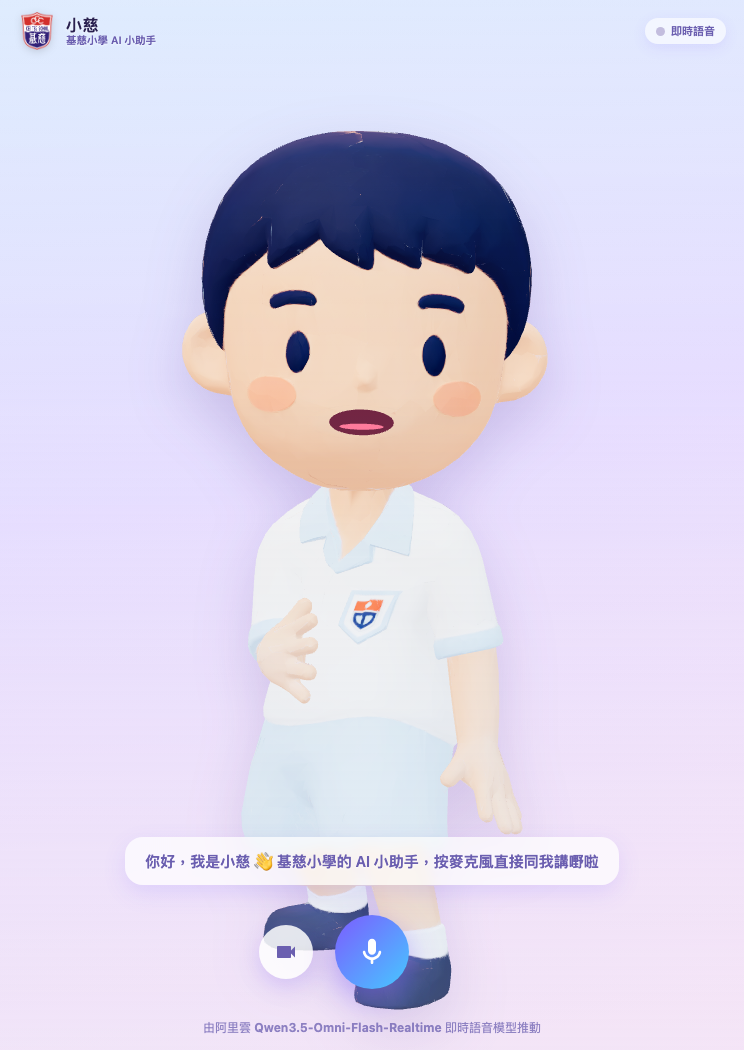
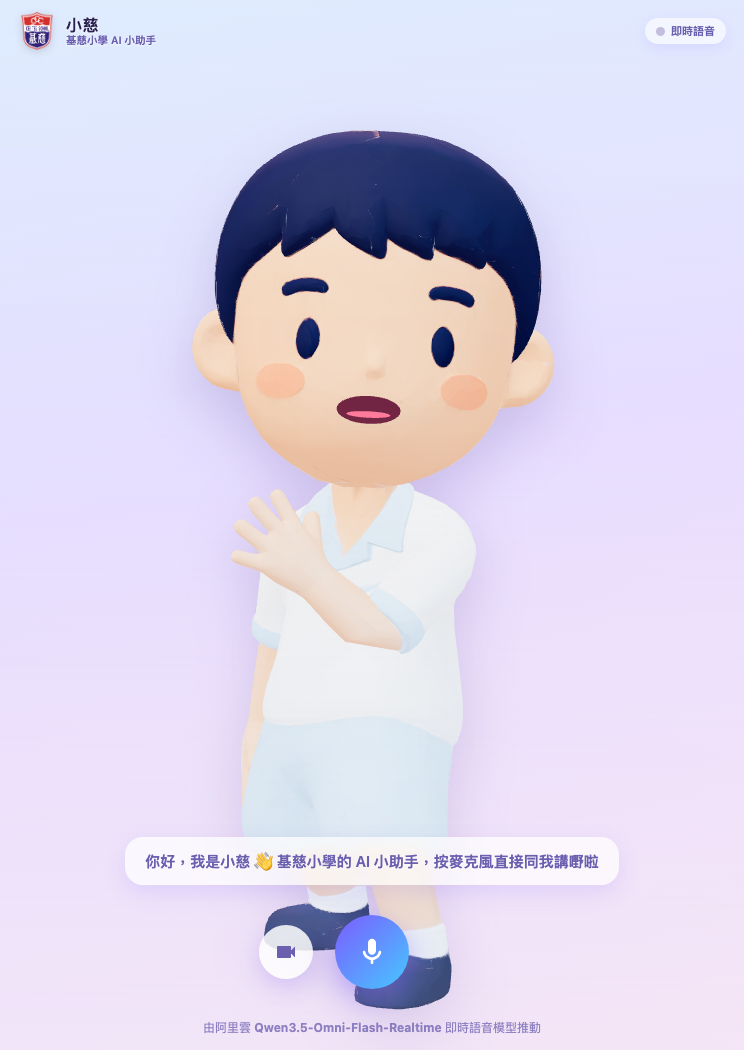
fix: amplify Xiaoci natural motion

diff --git a/public/xiaoci-3d.js b/public/xiaoci-3d.js
@@ -201,27 +201,30 @@ function initialise3D() {
 
   function applyUprightPosture() {
     // Bring the chest and head back over the hips without forcing a rigid pose.
-    applyAdditive(bones.Spine02, -0.065, 0, 0);
-    applyAdditive(bones.Spine01, -0.025, 0, 0);
-    applyAdditive(bones.Spine, -0.018, 0, 0);
-    applyAdditive(bones.neck, -0.035, 0, 0);
-    applyAdditive(bones.Head, -0.025, 0, 0);
+    applyAdditive(bones.Spine02, -0.095, 0, 0);
+    applyAdditive(bones.Spine01, -0.042, 0, 0);
+    applyAdditive(bones.Spine, -0.028, 0, 0);
+    applyAdditive(bones.neck, -0.052, 0, 0);
+    applyAdditive(bones.Head, -0.034, 0, 0);
   }
 
   function animateNaturalStance(elapsed) {
     const motion = reducedMotion ? 0 : api.state === 'idle' ? 1 : api.state === 'speaking' ? 0.18 : 0.45;
-    const weightShift = Math.sin(elapsed * 0.68);
-    const breath = Math.sin(elapsed * 1.18 + 0.7);
+    const weightShift = Math.sin(elapsed * 0.56);
+    const breath = Math.sin(elapsed * 1.08 + 0.7);
 
-    // Millimetre-scale motion keeps the character alive without looking wobbly.
-    characterRoot.position.set(weightShift * 0.004 * motion, breath * 0.0025 * motion, 0);
+    // A slow weight transfer is visible at rest, while the neck subtly counters
+    // the torso so the character feels balanced instead of moving like a pendulum.
+    characterRoot.position.set(weightShift * 0.014 * motion, breath * 0.005 * motion, 0);
     characterRoot.rotation.set(
       0,
-      api.facing + weightShift * 0.005 * motion,
-      Math.sin(elapsed * 0.52 + 1.2) * 0.0035 * motion
+      api.facing + weightShift * 0.010 * motion,
+      Math.sin(elapsed * 0.48 + 1.2) * 0.007 * motion
     );
-    applyAdditive(bones.Spine02, breath * 0.0035, 0, weightShift * 0.0045, motion);
-    applyAdditive(bones.neck, -breath * 0.0015, -weightShift * 0.002, 0, motion);
+    applyAdditive(bones.Hips, 0, 0, -weightShift * 0.0035, motion);
+    applyAdditive(bones.Spine02, breath * 0.006, 0, weightShift * 0.009, motion);
+    applyAdditive(bones.neck, -breath * 0.003, -weightShift * 0.0035, -weightShift * 0.003, motion);
+    applyAdditive(bones.Head, 0, 0, -weightShift * 0.002, motion);
   }
 
   function createMouth() {
@@ -326,15 +329,15 @@ function initialise3D() {
     const left = gestureWindow(phase, 3.15, 3.85, 5.05, 5.75);
     const emphasis = Math.sin(Math.min(1, Math.max(0, phase - 0.7)) * Math.PI * 2) * 0.035;
 
-    applyAdditive(bones.RightShoulder, -0.12, -0.04, -0.16, right);
-    applyAdditive(bones.RightArm, -0.55, -0.20, -0.86, right);
-    applyAdditive(bones.RightForeArm, -0.78, 0.10, -0.45, right);
-    applyAdditive(bones.RightHand, 0.10, 0.18, -0.25 + emphasis, right);
+    applyAdditive(bones.RightShoulder, -0.15, -0.05, -0.20, right);
+    applyAdditive(bones.RightArm, -0.66, -0.24, -1.02, right);
+    applyAdditive(bones.RightForeArm, -0.94, 0.12, -0.54, right);
+    applyAdditive(bones.RightHand, 0.12, 0.22, -0.30 + emphasis, right);
 
-    applyAdditive(bones.LeftShoulder, -0.10, 0.04, 0.15, left);
-    applyAdditive(bones.LeftArm, -0.52, 0.20, 0.82, left);
-    applyAdditive(bones.LeftForeArm, -0.75, -0.10, 0.42, left);
-    applyAdditive(bones.LeftHand, 0.10, -0.18, 0.24 - emphasis, left);
+    applyAdditive(bones.LeftShoulder, -0.13, 0.05, 0.19, left);
+    applyAdditive(bones.LeftArm, -0.63, 0.24, 0.98, left);
+    applyAdditive(bones.LeftForeArm, -0.90, -0.12, 0.50, left);
+    applyAdditive(bones.LeftHand, 0.12, -0.22, 0.29 - emphasis, left);
   }
 
   function gestureWindow(time, enter, holdStart, holdEnd, exit) {
